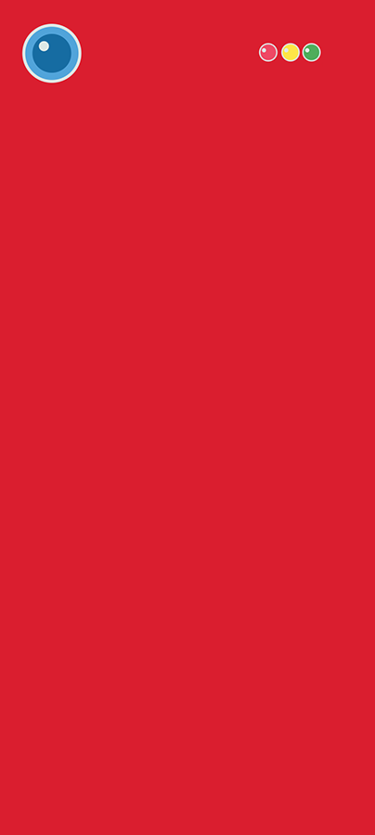
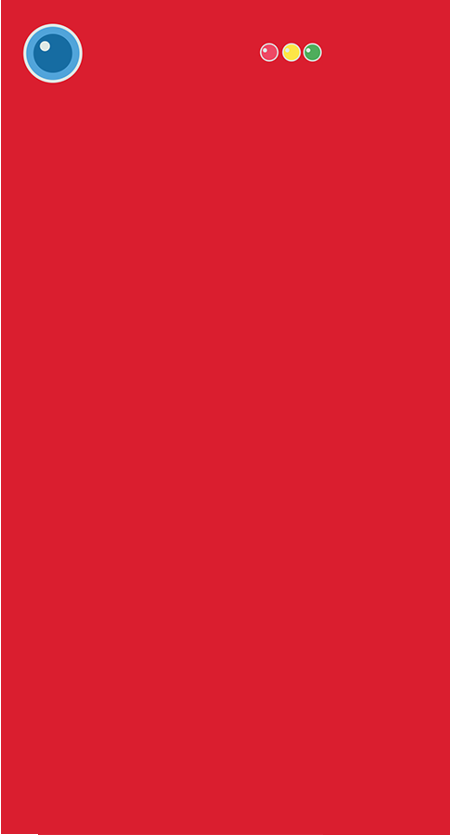
changes in the bg image size & bg color

Changed region(s): [[0.5867, 0.0311, 0.8507, 0.0934], [0.0293, 0.0311, 0.2347, 0.1246], [0.0, 0.9964, 0.088, 1.0]]

diff --git a/server/static/style.css b/server/static/style.css
@@ -133,7 +133,7 @@ footer p {
   @media only screen and (max-width: 500px) {
     /* For mobile phones: */
     body {
-        background-color:#ff1a55;
+        background-color:#da1e2f;
         color: #ffffff;
         font-family: 'Roboto', 'Helvetica Neue', 'Helvetica', 'Arial', sans-serif;
         font-size: 1.3em;
